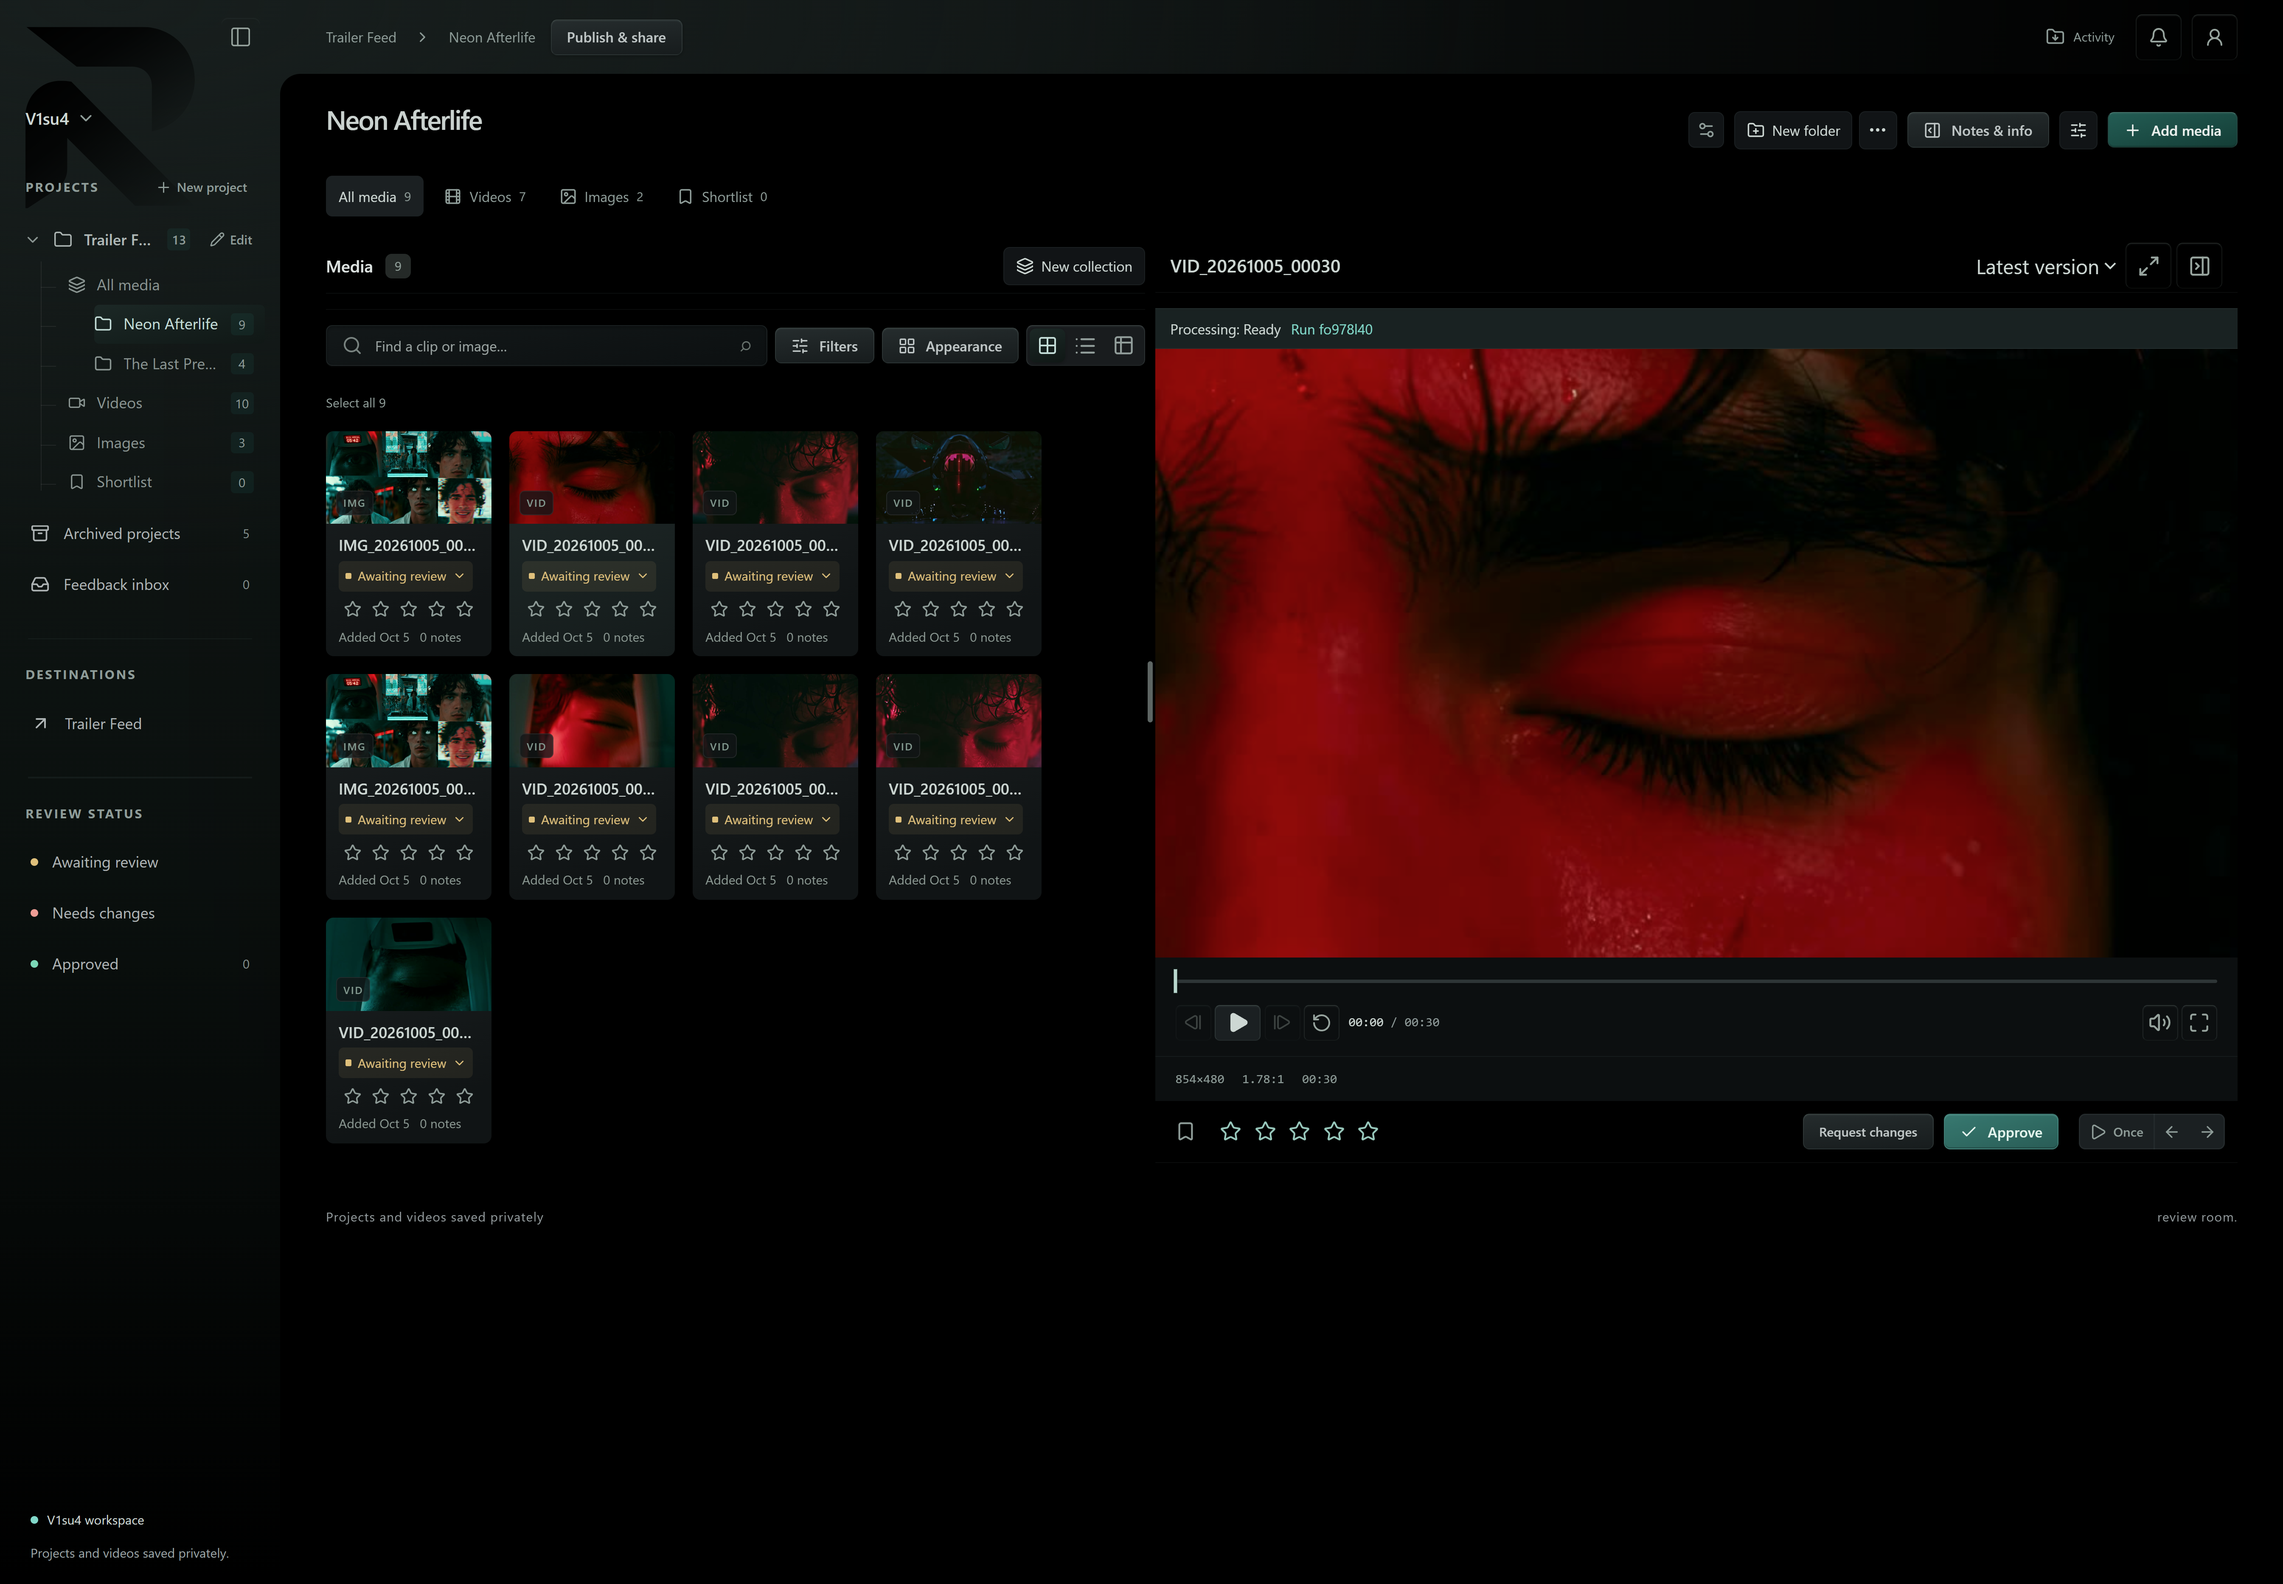
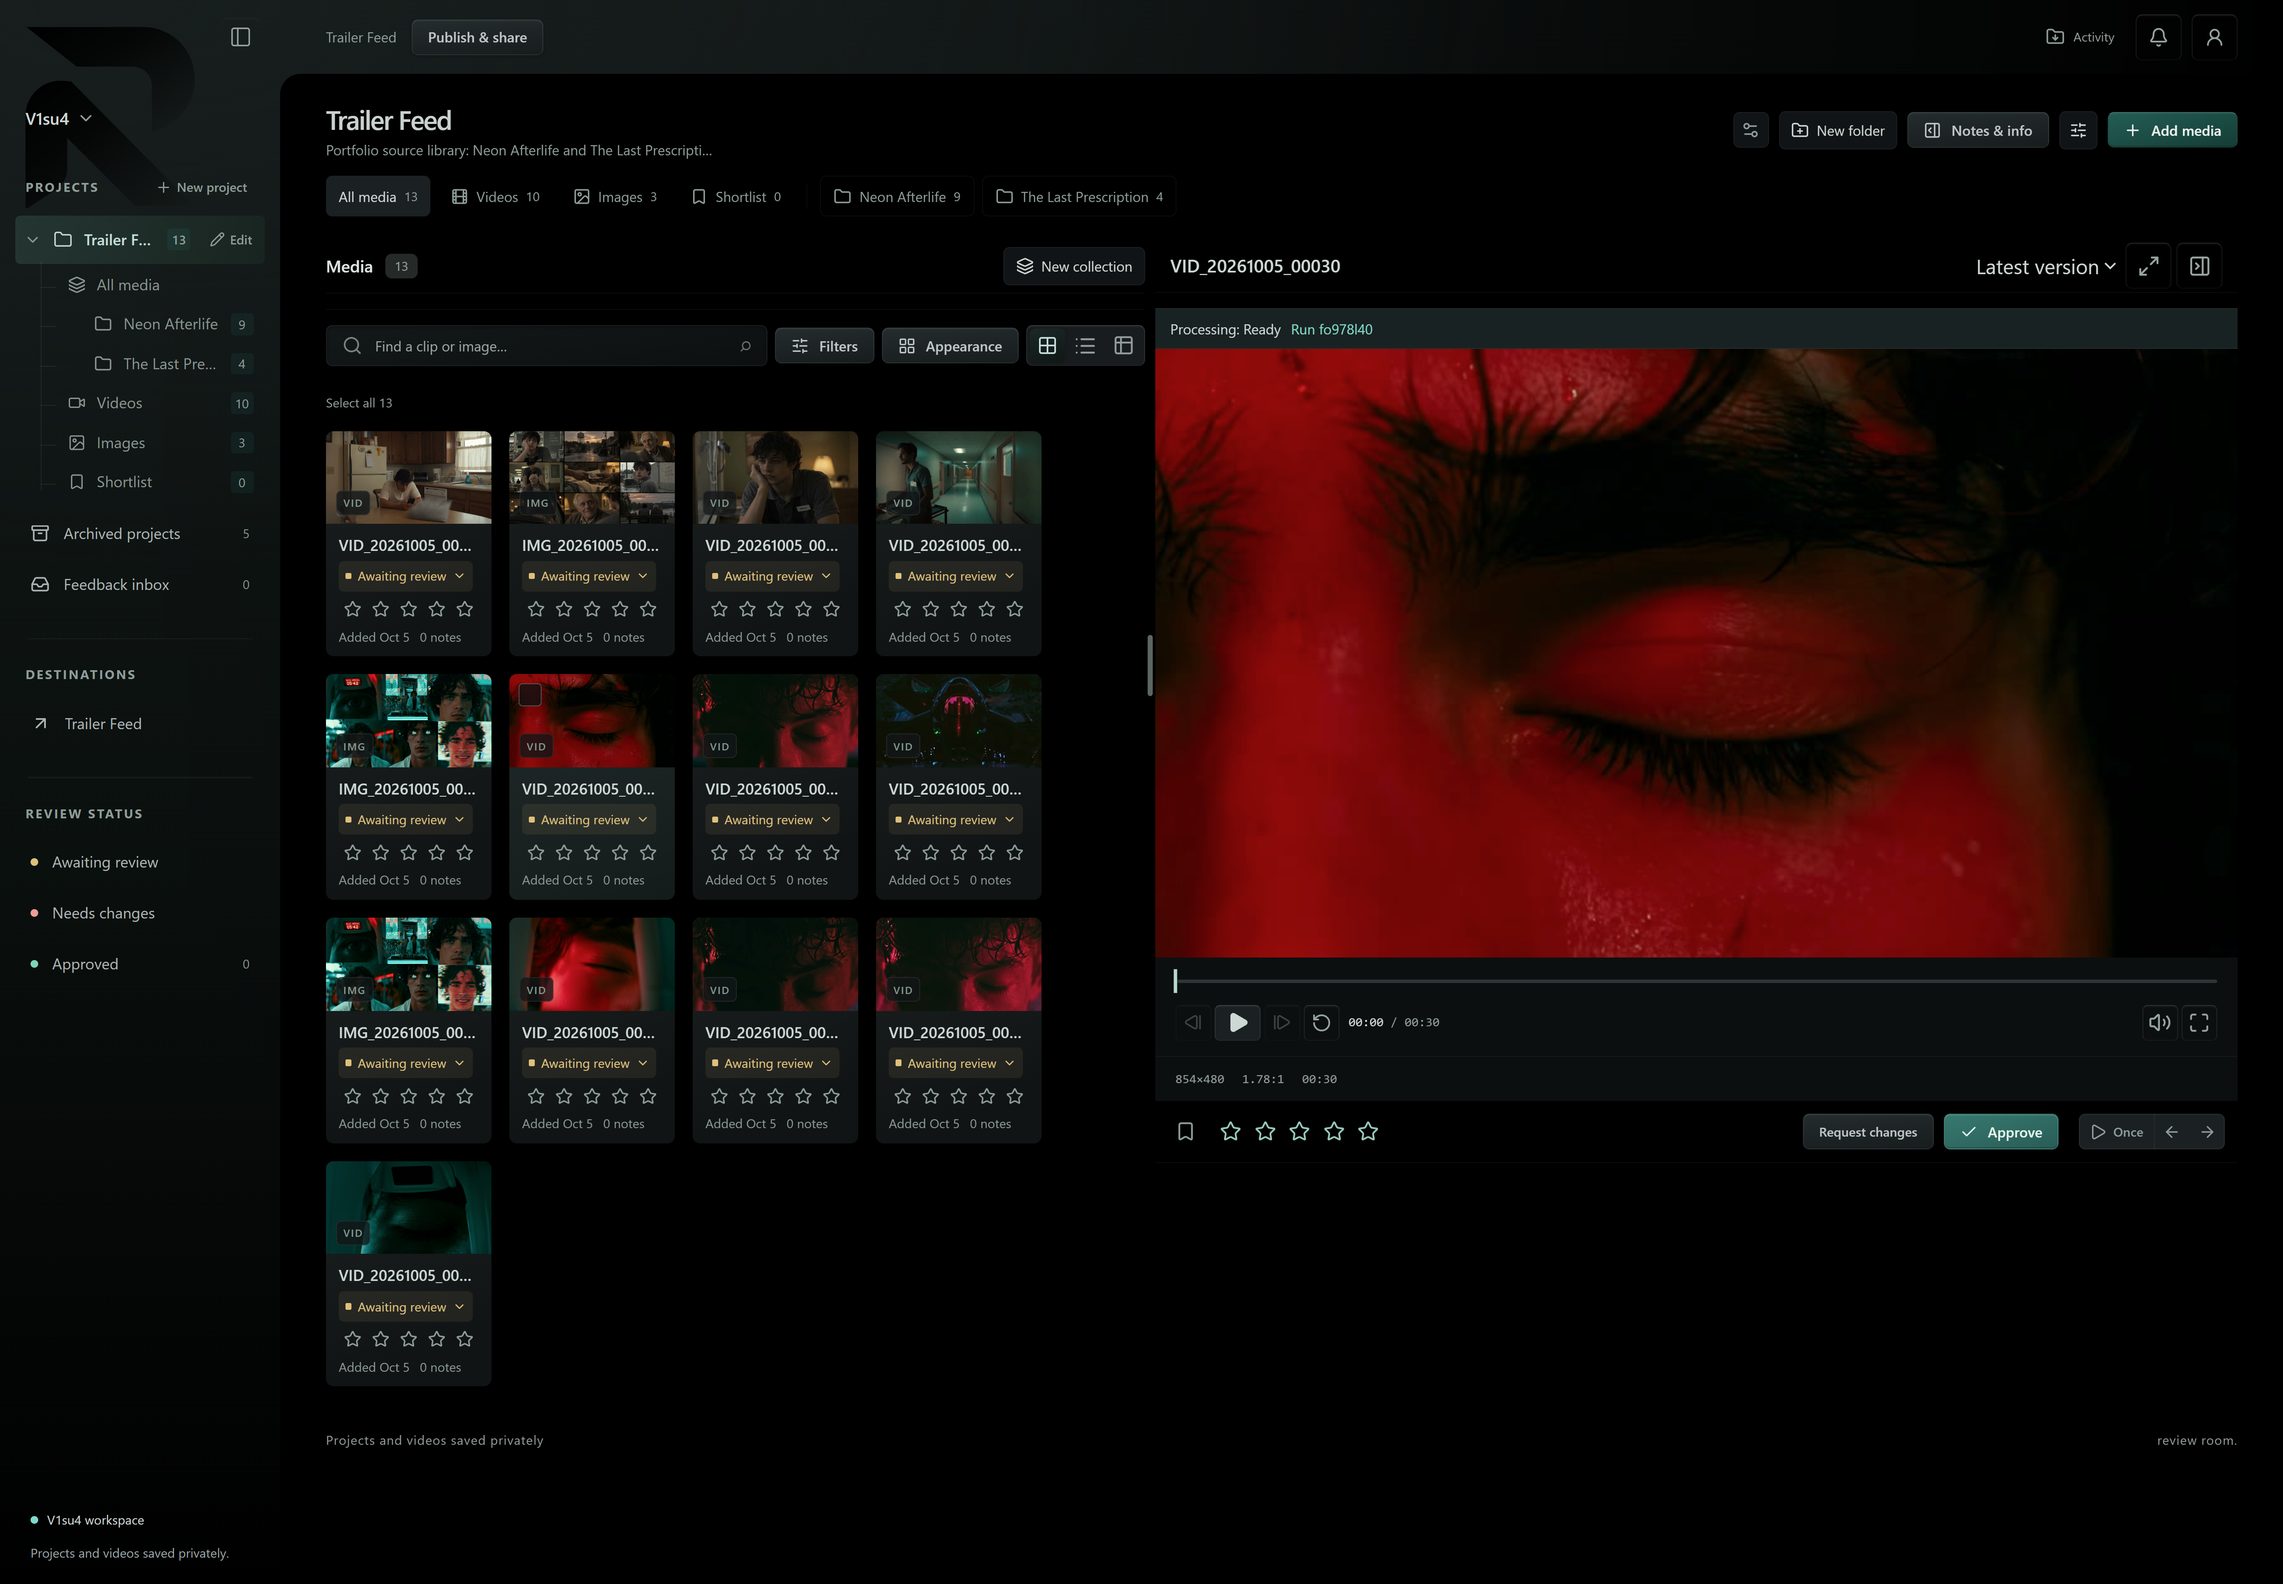
Use selected workspace view for README screenshot

diff --git a/README.md b/README.md
@@ -1,6 +1,6 @@
 # Review Room
 
-![Review Room workspace with Neon Afterlife media, playback, and feedback](docs/images/review-room.webp)
+![Review Room workspace with the geometric logo, media library, and review playback](docs/images/review-room.webp)
 
 A media review workspace for creators and clients. Organize videos and still images, review exact versions, collect feedback, and move projects from first review to approval.
 
